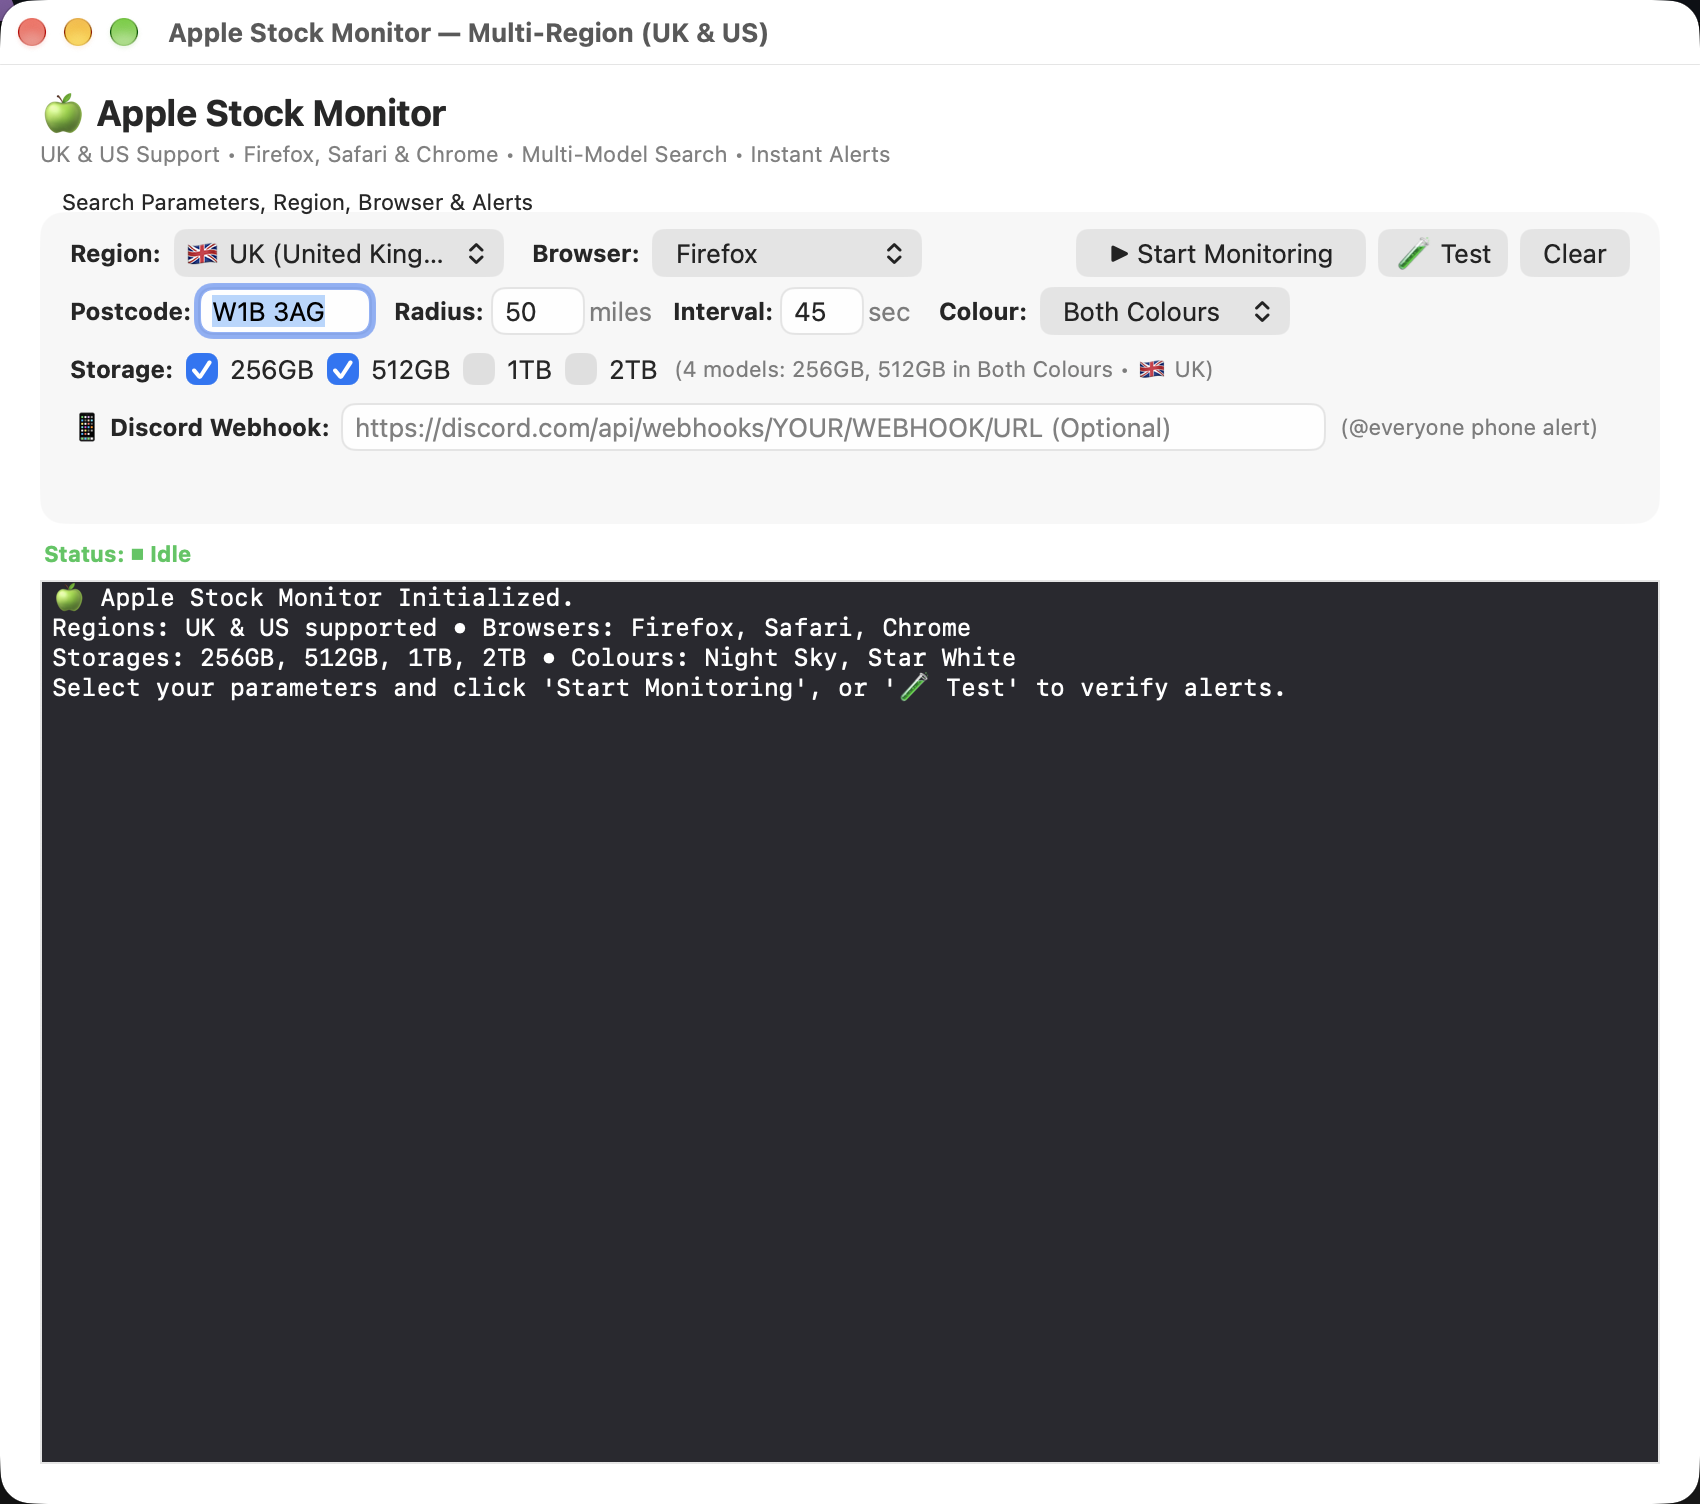
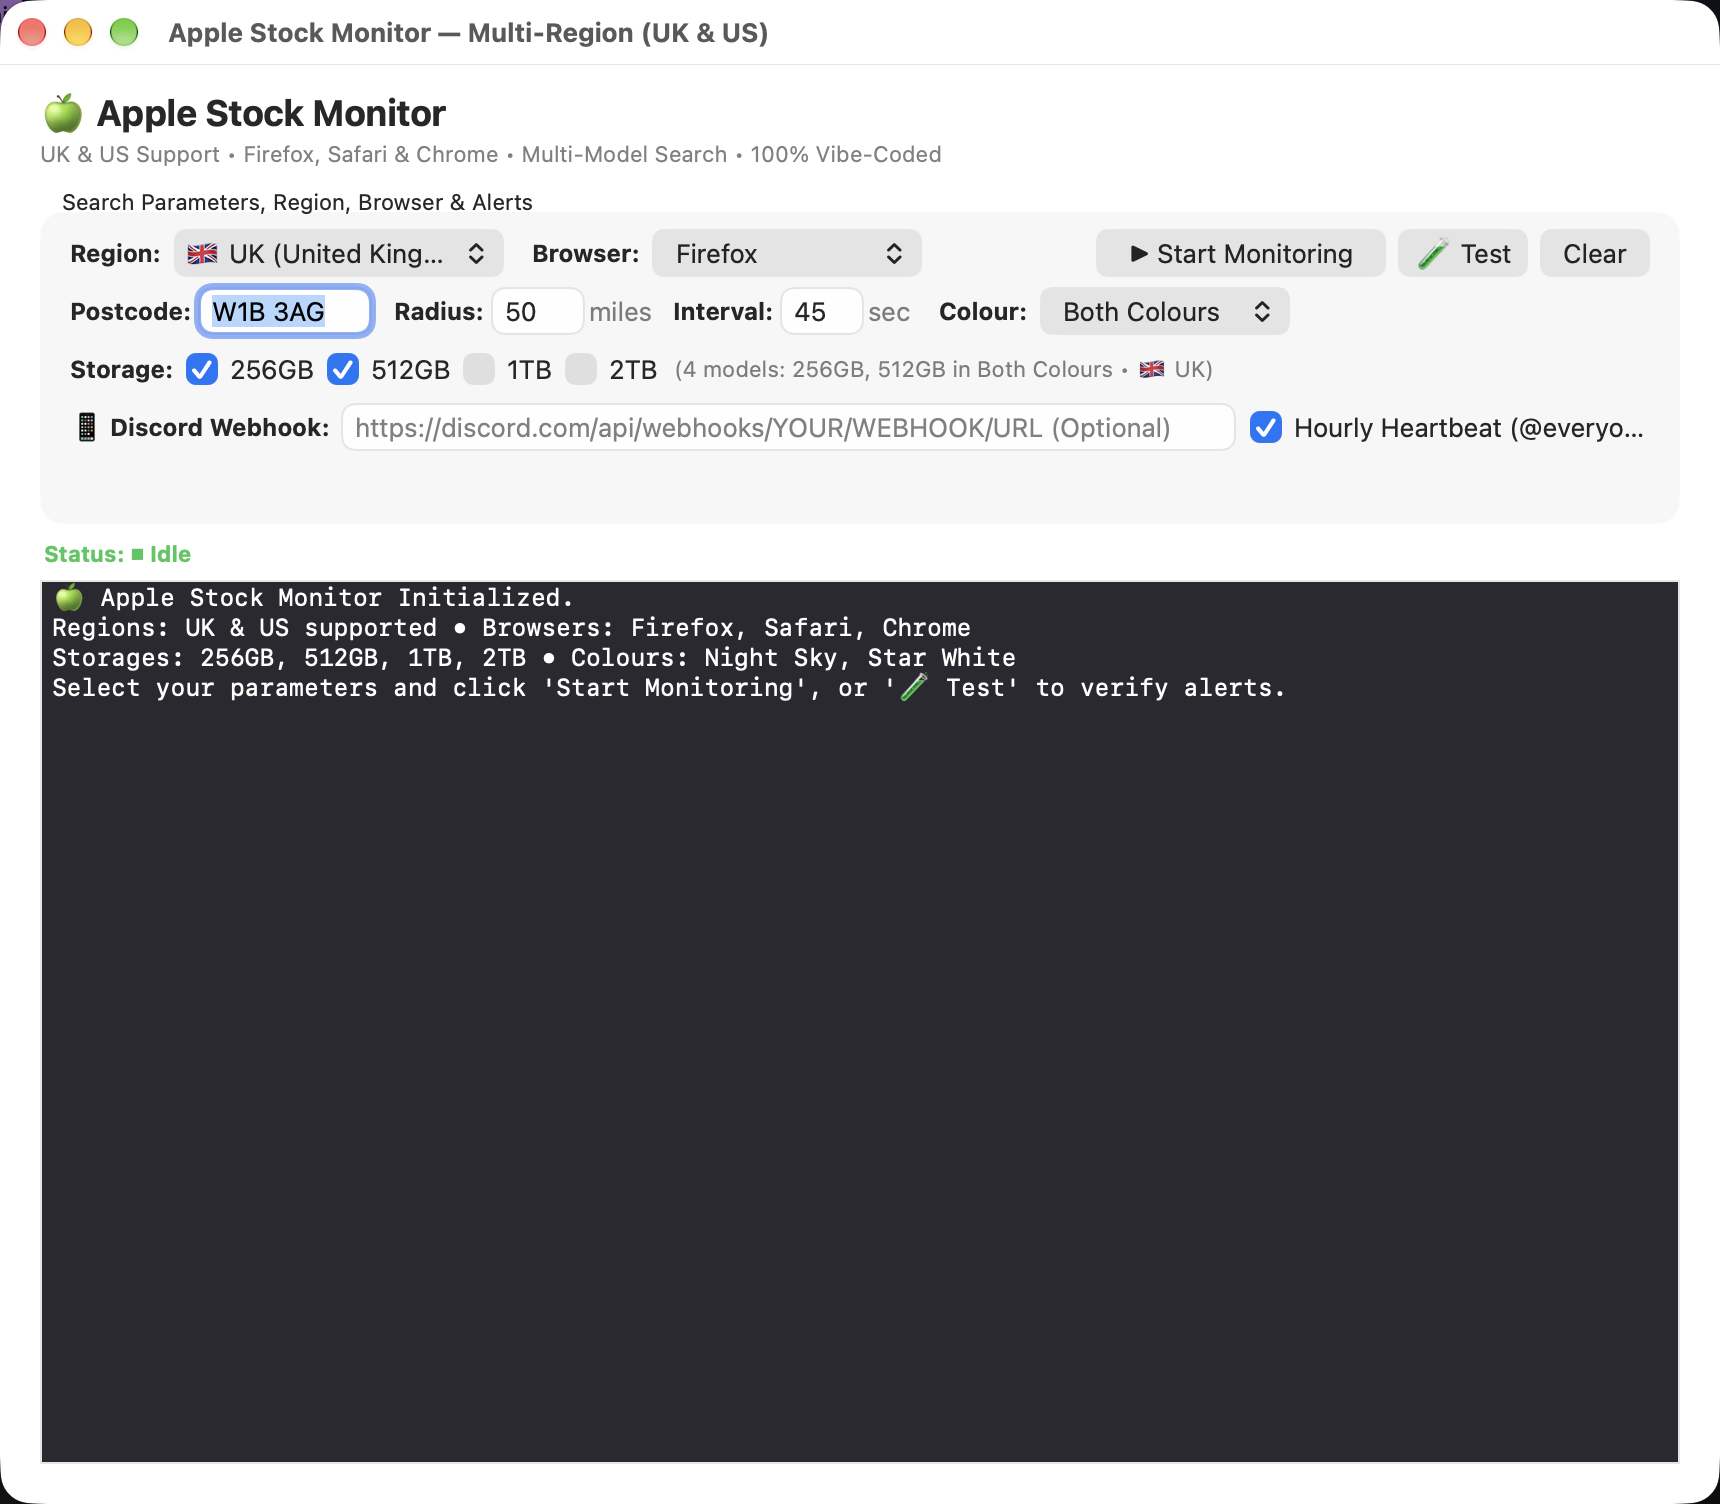
Add browser choice persistence, hourly heartbeat toggle, and vibe-coded badge

diff --git a/native_app.swift b/native_app.swift
@@ -14,6 +14,7 @@ class AppDelegate: NSObject, NSApplicationDelegate {
     var check512: NSButton!
     var check1tb: NSButton!
     var check2tb: NSButton!
+    var checkHourlyHeartbeat: NSButton!
     var modelSummaryLabel: NSTextField!
     var discordField: NSTextField!
     var startBtn: NSButton!
@@ -47,7 +48,7 @@ class AppDelegate: NSObject, NSApplicationDelegate {
     func applicationDidFinishLaunching(_ notification: Notification) {
         NSApp.setActivationPolicy(.regular)
         
-        let rect = NSRect(x: 100, y: 100, width: 850, height: 720)
+        let rect = NSRect(x: 100, y: 100, width: 860, height: 720)
         window = NSWindow(
             contentRect: rect,
             styleMask: [.titled, .closable, .miniaturizable, .resizable],
@@ -67,7 +68,7 @@ class AppDelegate: NSObject, NSApplicationDelegate {
         title.translatesAutoresizingMaskIntoConstraints = false
         content.addSubview(title)
         
-        let sub = NSTextField(labelWithString: "UK & US Support • Firefox, Safari & Chrome • Multi-Model Search • Instant Alerts")
+        let sub = NSTextField(labelWithString: "UK & US Support • Firefox, Safari & Chrome • Multi-Model Search • 100% Vibe-Coded")
         sub.font = NSFont.systemFont(ofSize: 11)
         sub.textColor = .secondaryLabelColor
         sub.translatesAutoresizingMaskIntoConstraints = false
@@ -101,6 +102,8 @@ class AppDelegate: NSObject, NSApplicationDelegate {
         
         browserPopUp = NSPopUpButton(frame: .zero, pullsDown: false)
         browserPopUp.addItems(withTitles: ["Firefox", "Safari", "Google Chrome", "Default Browser"])
+        browserPopUp.target = self
+        browserPopUp.action = #selector(preferenceChanged)
         browserPopUp.translatesAutoresizingMaskIntoConstraints = false
         bContent.addSubview(browserPopUp)
         
@@ -204,7 +207,7 @@ class AppDelegate: NSObject, NSApplicationDelegate {
         modelSummaryLabel.translatesAutoresizingMaskIntoConstraints = false
         bContent.addSubview(modelSummaryLabel)
         
-        // --- Row 4: Discord Webhook URL (Fluid stretching) ---
+        // --- Row 4: Discord Webhook URL & Hourly Heartbeat Checkbox ---
         let phoneLabel = NSTextField(labelWithString: "📱 Discord Webhook:")
         phoneLabel.font = NSFont.boldSystemFont(ofSize: 12)
         phoneLabel.translatesAutoresizingMaskIntoConstraints = false
@@ -215,11 +218,11 @@ class AppDelegate: NSObject, NSApplicationDelegate {
         discordField.translatesAutoresizingMaskIntoConstraints = false
         bContent.addSubview(discordField)
         
-        let hintLabel = NSTextField(labelWithString: "(@everyone phone alert)")
-        hintLabel.textColor = .secondaryLabelColor
-        hintLabel.font = NSFont.systemFont(ofSize: 11)
-        hintLabel.translatesAutoresizingMaskIntoConstraints = false
-        bContent.addSubview(hintLabel)
+        checkHourlyHeartbeat = NSButton(checkboxWithTitle: "Hourly Heartbeat (@everyone)", target: self, action: #selector(preferenceChanged))
+        checkHourlyHeartbeat.state = .on
+        checkHourlyHeartbeat.toolTip = "Sends an hourly status overview card to Discord (@everyone) with active checks and uptime."
+        checkHourlyHeartbeat.translatesAutoresizingMaskIntoConstraints = false
+        bContent.addSubview(checkHourlyHeartbeat)
         
         // 3. Status Bar
         statusLabel = NSTextField(labelWithString: "Status: ⏹ Idle")
@@ -349,17 +352,17 @@ class AppDelegate: NSObject, NSApplicationDelegate {
             modelSummaryLabel.leadingAnchor.constraint(equalTo: check2tb.trailingAnchor, constant: 8),
             modelSummaryLabel.trailingAnchor.constraint(lessThanOrEqualTo: bContent.trailingAnchor, constant: -10),
             
-            // --- Row 4 Constraints (Discord Webhook fluid) ---
+            // --- Row 4 Constraints (Discord Webhook & Heartbeat Checkbox) ---
             phoneLabel.topAnchor.constraint(equalTo: storageLabel.bottomAnchor, constant: 14),
             phoneLabel.leadingAnchor.constraint(equalTo: bContent.leadingAnchor, constant: 10),
             
-            hintLabel.centerYAnchor.constraint(equalTo: phoneLabel.centerYAnchor),
-            hintLabel.trailingAnchor.constraint(equalTo: bContent.trailingAnchor, constant: -10),
-            hintLabel.widthAnchor.constraint(equalToConstant: 145),
+            checkHourlyHeartbeat.centerYAnchor.constraint(equalTo: phoneLabel.centerYAnchor),
+            checkHourlyHeartbeat.trailingAnchor.constraint(equalTo: bContent.trailingAnchor, constant: -10),
+            checkHourlyHeartbeat.widthAnchor.constraint(equalToConstant: 200),
             
             discordField.centerYAnchor.constraint(equalTo: phoneLabel.centerYAnchor),
             discordField.leadingAnchor.constraint(equalTo: phoneLabel.trailingAnchor, constant: 6),
-            discordField.trailingAnchor.constraint(equalTo: hintLabel.leadingAnchor, constant: -8),
+            discordField.trailingAnchor.constraint(equalTo: checkHourlyHeartbeat.leadingAnchor, constant: -8),
             discordField.heightAnchor.constraint(equalToConstant: 22),
             
             // Status Label
@@ -374,7 +377,7 @@ class AppDelegate: NSObject, NSApplicationDelegate {
             scroll.bottomAnchor.constraint(equalTo: content.bottomAnchor, constant: -20),
         ])
         
-        updateModelSummary()
+        loadPreferences()
         
         appendLog("🍏 Apple Stock Monitor Initialized.\nRegions: UK & US supported • Browsers: Firefox, Safari, Chrome\nStorages: 256GB, 512GB, 1TB, 2TB • Colours: Night Sky, Star White\nSelect your parameters and click 'Start Monitoring', or '🧪 Test' to verify alerts.\n\n")
         
@@ -407,6 +410,70 @@ class AppDelegate: NSObject, NSApplicationDelegate {
             if postcodeField.stringValue == "10001" {
                 postcodeField.stringValue = "W1B 3AG"
             }
+        }
+        updateModelSummary()
+        savePreferences()
+    }
+    
+    @objc func preferenceChanged() {
+        updateModelSummary()
+        savePreferences()
+    }
+    
+    func savePreferences() {
+        let defaults = UserDefaults.standard
+        defaults.set(regionPopUp.indexOfSelectedItem, forKey: "savedRegion")
+        defaults.set(browserPopUp.indexOfSelectedItem, forKey: "savedBrowser")
+        defaults.set(postcodeField.stringValue, forKey: "savedLocation")
+        defaults.set(radiusField.stringValue, forKey: "savedRadius")
+        defaults.set(intervalField.stringValue, forKey: "savedInterval")
+        defaults.set(colorPopUp.indexOfSelectedItem, forKey: "savedColor")
+        defaults.set(check256.state == .on, forKey: "saved256")
+        defaults.set(check512.state == .on, forKey: "saved512")
+        defaults.set(check1tb.state == .on, forKey: "saved1tb")
+        defaults.set(check2tb.state == .on, forKey: "saved2tb")
+        defaults.set(checkHourlyHeartbeat.state == .on, forKey: "savedHourlyHeartbeat")
+        defaults.set(discordField.stringValue, forKey: "savedDiscord")
+    }
+    
+    func loadPreferences() {
+        let defaults = UserDefaults.standard
+        if defaults.object(forKey: "savedBrowser") != nil {
+            browserPopUp.selectItem(at: defaults.integer(forKey: "savedBrowser"))
+        }
+        if defaults.object(forKey: "savedRegion") != nil {
+            regionPopUp.selectItem(at: defaults.integer(forKey: "savedRegion"))
+            regionChanged()
+        }
+        if let loc = defaults.string(forKey: "savedLocation"), !loc.isEmpty {
+            postcodeField.stringValue = loc
+        }
+        if let rad = defaults.string(forKey: "savedRadius"), !rad.isEmpty {
+            radiusField.stringValue = rad
+        }
+        if let inv = defaults.string(forKey: "savedInterval"), !inv.isEmpty {
+            intervalField.stringValue = inv
+        }
+        if defaults.object(forKey: "savedColor") != nil {
+            colorPopUp.selectItem(at: defaults.integer(forKey: "savedColor"))
+        }
+        if defaults.object(forKey: "saved256") != nil {
+            check256.state = defaults.bool(forKey: "saved256") ? .on : .off
+        }
+        if defaults.object(forKey: "saved512") != nil {
+            check512.state = defaults.bool(forKey: "saved512") ? .on : .off
+        }
+        if defaults.object(forKey: "saved1tb") != nil {
+            check1tb.state = defaults.bool(forKey: "saved1tb") ? .on : .off
+        }
+        if defaults.object(forKey: "saved2tb") != nil {
+            check2tb.state = defaults.bool(forKey: "saved2tb") ? .on : .off
+        }
+        if defaults.object(forKey: "savedHourlyHeartbeat") != nil {
+            checkHourlyHeartbeat.state = defaults.bool(forKey: "savedHourlyHeartbeat") ? .on : .off
+        }
+        if let disc = defaults.string(forKey: "savedDiscord"), !disc.isEmpty {
+            discordField.stringValue = disc
         }
         updateModelSummary()
     }
@@ -484,6 +551,7 @@ class AppDelegate: NSObject, NSApplicationDelegate {
     }
     
     func startMonitoring() {
+        savePreferences()
         let isUS = (regionPopUp.indexOfSelectedItem == 1)
         let country = isUS ? "us" : "uk"
         let browser = getBrowserArg()
@@ -491,10 +559,11 @@ class AppDelegate: NSObject, NSApplicationDelegate {
         let rad = radiusField.stringValue.trimmingCharacters(in: .whitespacesAndNewlines)
         let inv = intervalField.stringValue.trimmingCharacters(in: .whitespacesAndNewlines)
         let discord = discordField.stringValue.trimmingCharacters(in: .whitespacesAndNewlines)
+        let hourly = (checkHourlyHeartbeat.state == .on)
         let skus = getSelectedSKUs()
         let script = resolvedScriptPath
         
-        let discordDisplay = discord.isEmpty ? "Disabled" : "Active"
+        let discordDisplay = discord.isEmpty ? "Disabled" : (hourly ? "Active (Hourly Heartbeat ON)" : "Active (Alerts Only)")
         appendLog("▶ Starting stock monitor (Region: \(country.uppercased()), Location: \(pc), Radius: \(rad) mi, Cadence: \(inv)s, Browser: \(browser.capitalized), Models: \(skus.count), Discord: \(discordDisplay))...\n")
         
         let p = Process()
@@ -506,9 +575,14 @@ class AppDelegate: NSObject, NSApplicationDelegate {
             "--postcode", pc,
             "--distance", rad,
             "--interval", inv,
-            "--keep-monitoring",
-            "--parts"
+            "--keep-monitoring"
         ]
+        if hourly {
+            args.append("--hourly-ping")
+        } else {
+            args.append("--no-hourly-ping")
+        }
+        args.append("--parts")
         args.append(contentsOf: skus)
         if !discord.isEmpty {
             args.append(contentsOf: ["--discord", discord])
@@ -604,6 +678,7 @@ class AppDelegate: NSObject, NSApplicationDelegate {
     }
     
     @objc func runTest() {
+        savePreferences()
         let isUS = (regionPopUp.indexOfSelectedItem == 1)
         let country = isUS ? "us" : "uk"
         let browser = getBrowserArg()
@@ -649,6 +724,7 @@ class AppDelegate: NSObject, NSApplicationDelegate {
     }
     
     func applicationWillTerminate(_ notification: Notification) {
+        savePreferences()
         stopMonitoring()
     }
 }

diff --git a/check_stock.py b/check_stock.py
@@ -519,6 +519,19 @@ def main():
         default="",
         help="Discord webhook URL for instant phone push notifications.",
     )
+    parser.add_argument(
+        "--hourly-ping",
+        dest="hourly_ping",
+        action="store_true",
+        default=True,
+        help="Send hourly @everyone status heartbeat to Discord (default: True).",
+    )
+    parser.add_argument(
+        "--no-hourly-ping",
+        dest="hourly_ping",
+        action="store_false",
+        help="Disable hourly @everyone status heartbeat to Discord.",
+    )
     args = parser.parse_args()
 
     country = "us" if args.country in ["us", "usa"] else "uk"
@@ -606,8 +619,8 @@ def main():
             )
             consecutive_errors = 0
 
-            # Hourly Discord heartbeat summary (@everyone)
-            if args.discord and (time.time() - last_hourly_ping >= 3600):
+            # Hourly Discord heartbeat summary (@everyone) - only if enabled
+            if args.discord and args.hourly_ping and (time.time() - last_hourly_ping >= 3600):
                 elapsed_hours = (time.time() - start_time) / 3600.0
                 uptime_str = f"{elapsed_hours:.1f} hours" if elapsed_hours >= 1.5 else "1 hour"
 

diff --git a/README.md b/README.md
@@ -1,5 +1,9 @@
 # 🍏 Apple Stock Monitor (UK & US)
 
+[![Vibe Coded](https://img.shields.io/badge/Vibe--Coded-100%25-ff69b4?style=for-the-badge&logo=sparkles)](https://github.com/fotcss/apple-stock-checker)
+[![License: MIT](https://img.shields.io/badge/License-MIT-blue.svg?style=for-the-badge)](LICENSE)
+[![Platform](https://img.shields.io/badge/Platform-macOS-000000?style=for-the-badge&logo=apple)](https://github.com/fotcss/apple-stock-checker)
+
 > **Real-time, multi-model inventory tracking for Apple Retail Stores across the UK and United States.**  
 > Automatically monitors pickup stock, launches your chosen browser (**Firefox**, **Safari**, or **Chrome**) straight to checkout, sounds voice alerts, and delivers high-priority Discord push notifications directly to your phone.
 
@@ -22,8 +26,10 @@
   Query multiple colours (*Night Sky*, *Star White*) and multiple storages (*256GB*, *512GB*, *1TB*, *2TB*) simultaneously in a **single HTTP/2 request** with zero extra latency or Akamai bot-challenge risk.
 - **📱 Instant Discord Phone Notifications:**
   - **Stock Drops:** Pings `@everyone` with loud sound, vibration, and a direct `[🛒 BUY NOW ON APPLE STORE]` link.
-  - **Hourly Status Reports:** Automatically sends a structured `@everyone` overview every 60 minutes showing active uptime, stores scanned, and total check count.
+  - **Hourly Status Heartbeat:** Sends a structured `@everyone` overview card every 60 minutes showing active uptime, stores scanned, and total check count (can be toggled on/off in the UI or CLI).
   - **Quiet Status Logs:** Logs startup, pause, network warnings, and rate-limit cooldowns quietly without pinging your phone.
+- **💾 Automatic Preference Persistence:**
+  Remembers your chosen browser, region, location, search radius, check interval, selected models, and Discord webhook across launches via macOS `UserDefaults`.
 - **🔊 Voice Announcements & Audio Alerts:**
   Speaks the in-stock store location aloud using macOS Text-to-Speech (`say`) alongside native system alert chimes.
 - **☕ Built-in System Sleep Prevention:**
@@ -92,8 +98,15 @@ python3 check_stock.py --country us --postcode 10001 --distance 30 --color night
 | `--storages` | `256GB` | Storages to check: `256GB`, `512GB`, `1TB`, `2TB` |
 | `--interval` | `45` | Check cadence in seconds |
 | `--discord` | `""` | Discord Webhook URL for instant phone push alerts |
+| `--hourly-ping` / `--no-hourly-ping` | `true` | Toggle hourly `@everyone` Discord status heartbeat |
 | `--test-browser`| `false` | Tests browser launch, voice chime, and Discord ping |
 | `--keep-monitoring`| `false` | Continue scanning after stock is detected |
+
+---
+
+## 🪄 100% Vibe-Coded
+
+This entire project — from the native Swift AppKit user interface and multithreaded backend engine to the cross-region SKU resolvers, Discord webhook payloads, and sleep assertions — was **100% vibe-coded** with AI pair-programming in Antigravity. Zero lines were manually written by hand; built entirely through natural language guidance, rapid iteration, and real-time visual testing.
 
 ---
 
